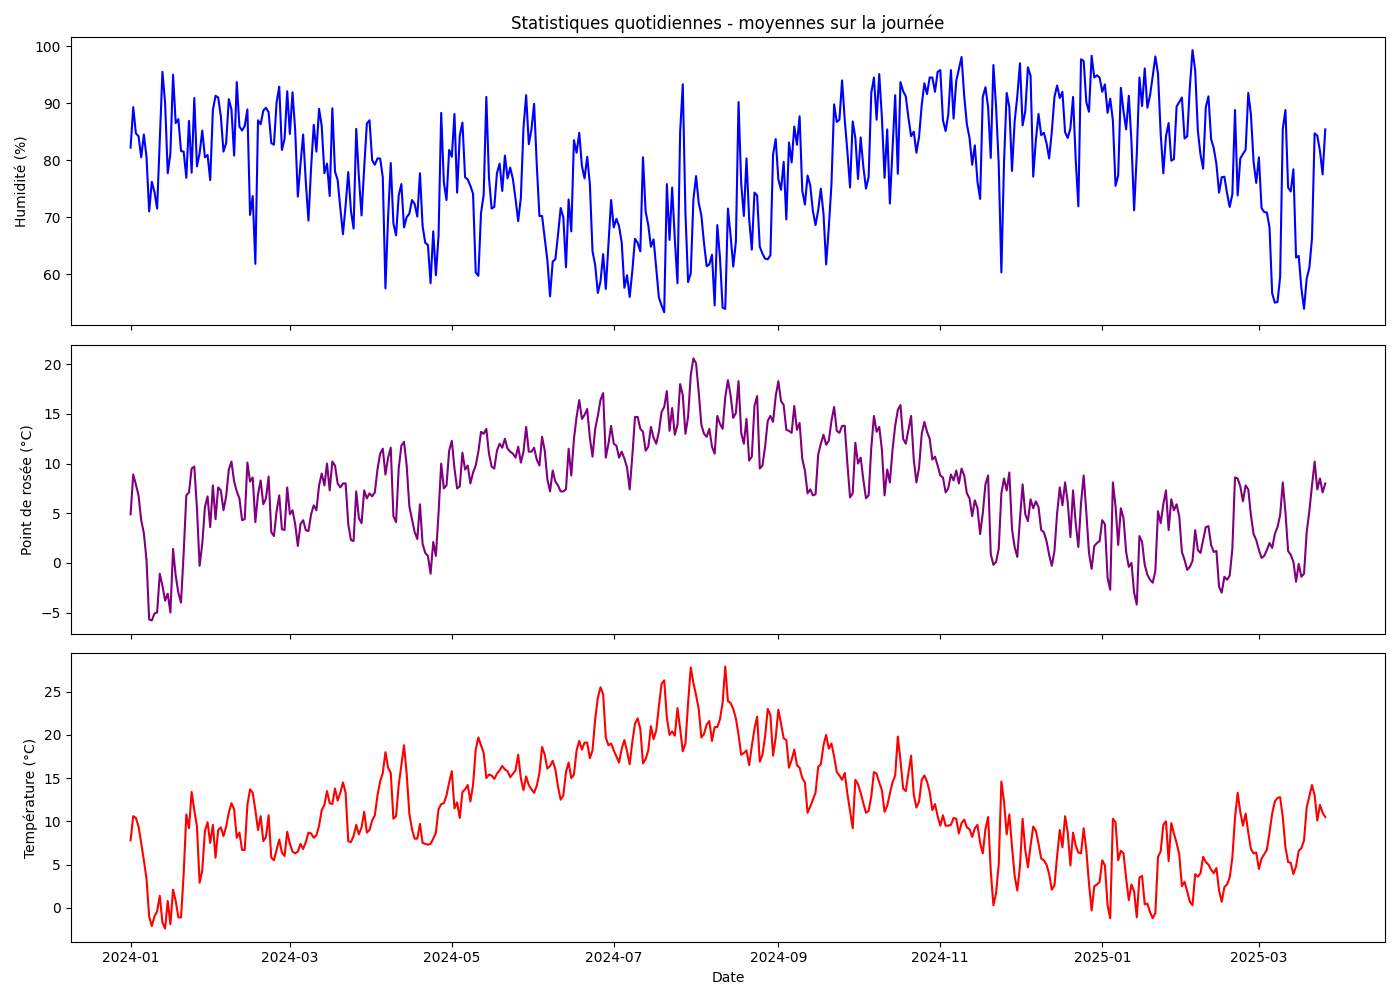
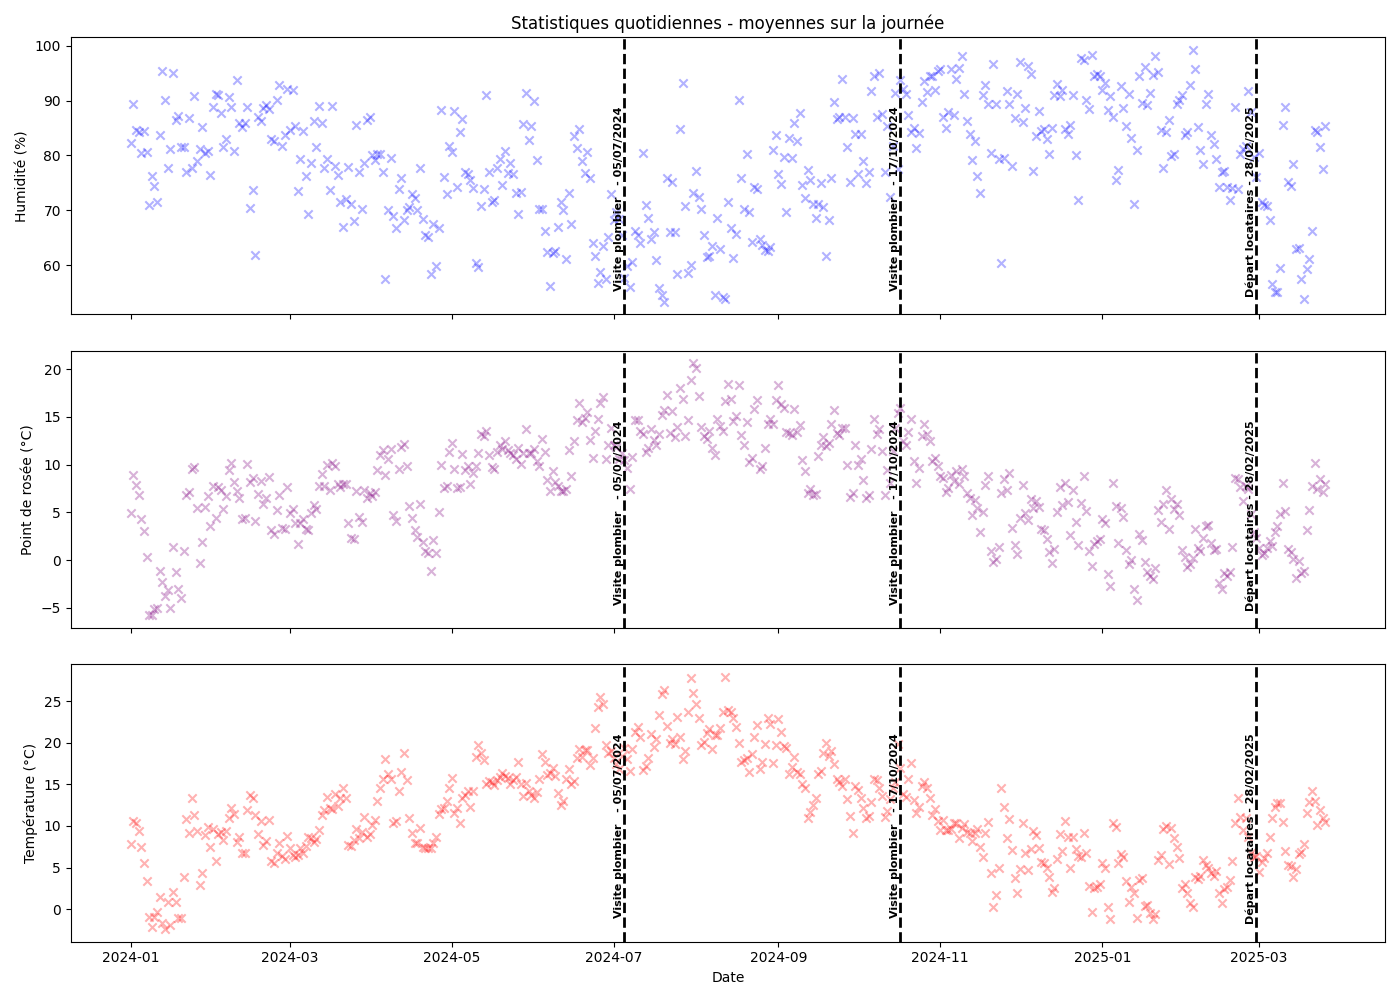
adding simple annotations for daily data

diff --git a/scripts/plot.py b/scripts/plot.py
@@ -70,6 +70,21 @@ def add_annotations(ax):
                     verticalalignment='top', horizontalalignment='right')
 
 
+def add_simple_annotations(ax):
+    """
+    Add vertical lines and dates only.
+
+    Parameters:
+        ax (matplotlib.Axes): The plot axis to annotate.
+    """
+    for date_str, label, wetness in ANNOTATIONS:
+        date = pd.to_datetime(date_str)
+        ax.axvline(x=date, color='black', linestyle='--', linewidth=2)
+        ax.text(date, ax.get_ylim()[0] * 0.25 + ax.get_ylim()[1] * 0.75, label,
+                rotation=90, color='black', fontsize=8, fontweight='bold',
+                verticalalignment='top', horizontalalignment='right')
+
+
 def plot_variable(cleaned_dir, var):
     df, weekly, trend, ste = read_variable_series(cleaned_dir, var)
 
@@ -152,18 +167,22 @@ def plot_temperature_and_dewpoint(temp_weekly, dew_weekly):
 def plot_daily_weather(temp_df, dew_df, humidity_df):
     fig, axs = plt.subplots(3, 1, figsize=(14, 10), sharex=True)
 
-    axs[2].plot(temp_df.index, temp_df['avg'], color=COLORS['temperature'])
+    axs[2].scatter(temp_df.index, temp_df['avg'], color=COLORS['temperature'], marker='x', alpha=.3)
     axs[2].set_ylabel("Température (°C)")
     # axs[2].set_title("Température quotidienne")
 
-    axs[1].plot(dew_df.index, dew_df['avg'], color=COLORS['dew_point'])
+    axs[1].scatter(dew_df.index, dew_df['avg'], color=COLORS['dew_point'], marker='x', alpha=.3)
     axs[1].set_ylabel("Point de rosée (°C)")
     # axs[1].set_title("Point de rosée quotidien")
 
-    axs[0].plot(humidity_df.index, humidity_df['avg'], color=COLORS['humidity'])
+    axs[0].scatter(humidity_df.index, humidity_df['avg'], color=COLORS['humidity'], marker='x', alpha=.3)
     axs[0].set_ylabel("Humidité (%)")
     axs[0].set_title("Statistiques quotidiennes - moyennes sur la journée")
     axs[2].set_xlabel("Date")
+
+    add_simple_annotations(axs[0])
+    add_simple_annotations(axs[1])
+    add_simple_annotations(axs[2])
 
     plt.tight_layout()
     plt.savefig("data/png/daily_weather_combined.png")
